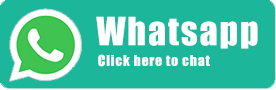
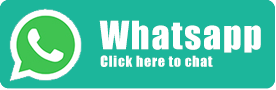
#1891

diff --git a/resources/views/blog/frontend/foodtour.blade.php b/resources/views/blog/frontend/foodtour.blade.php
@@ -682,8 +682,8 @@ function BOOKING()
          
         </div>
         <p class="m-0 text-center">
-        <a href="https://wa.me/+6285743112112"><img src="/assets/foodtour/whatsapp.png"></a>
-        <a href="https://t.me/vertikaltrip"><img src="/assets/foodtour/telegram.png"></a>
+        <a href="https://wa.me/+6285743112112"><img src="/assets/foodtour/whatsapp.png" style="margin-bottom:5px;"></a>
+        <a href="https://t.me/vertikaltrip"><img src="/assets/foodtour/telegram.png" style="margin-bottom:5px;"></a>
         <br /><br />
         
         <span class="fa fa-location-arrow"></span> Tugu Yogyakarta Monument<br />Gowongan, Jetis, Kota Yogyakarta, Daerah Istimewa Yogyakarta 55233<br>
